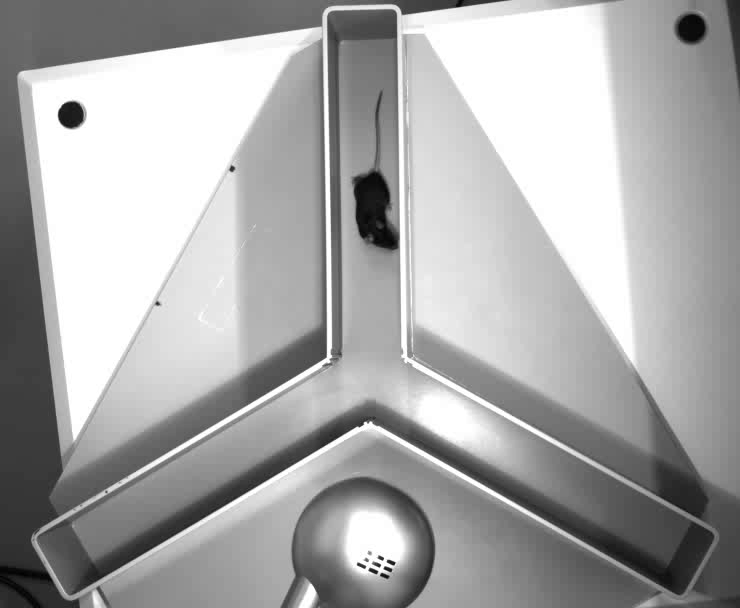
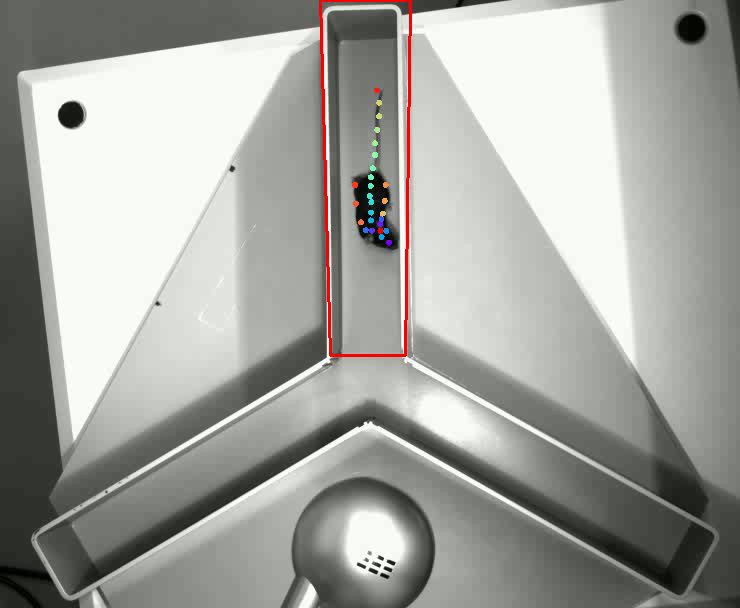
a

Changed region(s): [[0.4041, 0.0, 0.5595, 0.5938]]

diff --git a/YLine/YLine.py b/YLine/YLine.py
@@ -16,9 +16,8 @@ import re
 
 # USER INPUT
 # define folder with the csv files
-path = 'C:\\Users\\landgrafn\\Desktop\\kat\\'
+path = 'C:\\Users\\landgrafn\\Desktop\\check\\'
 
-# define values
 width = 740
 height = 608
 
@@ -49,7 +48,7 @@ duration = 303.03333333333336
 # preparation
 def get_files(path):
     # get files
-    common_name = 'Y-maze 29.04.2024.517_WT_naiveDLC_resnet50_TopoViewMouseMar22shuffle1_600000_filtered.csv'
+    common_name = '.csv'
     files = [file for file in os.listdir(path) 
                 if os.path.isfile(os.path.join(path, file)) and
                 common_name in file]
@@ -72,13 +71,17 @@ def define_bodyparts():
                  'tail_base', 'tail1', 'tail2', 'tail3', 'tail4', 'tail5', 'tail_end',
                  'left_shoulder', 'left_midside', 'left_hip', 'right_shoulder', 'right_midside', 'right_hip']
 
-    bps_80 = ['nose', 'left_ear', 'right_ear', 'left_ear_tip', 'right_ear_tip', 'left_eye', 'right_eye', 'head_midpoint', 
+    bps_entry = ['nose', 'left_ear', 'right_ear', 'left_ear_tip', 'right_ear_tip', 'left_eye', 'right_eye', 'head_midpoint', 
                  'neck', 'mid_back', 'mouse_center', 'mid_backend', 'mid_backend2', 'mid_backend3', 'tail_base', 
+                 'left_shoulder', 'left_midside', 'left_hip', 'right_shoulder', 'right_midside', 'right_hip']
+    
+    bps_exit = ['nose', 'left_ear', 'right_ear', 'left_ear_tip', 'right_ear_tip', 'left_eye', 'right_eye', 'head_midpoint', 
+                 'neck', 'mid_back', 'mouse_center', 'mid_backend', 'mid_backend2', 'mid_backend3', 
                  'left_shoulder', 'left_midside', 'left_hip', 'right_shoulder', 'right_midside', 'right_hip']
 
     # bps_head = ['nose', 'left_ear', 'right_ear', 'left_ear_tip', 'right_ear_tip', 'left_eye', 'right_eye', 'head_midpoint']
 
-    return bps_all, bps_80
+    return bps_all, bps_entry, bps_exit
 
 def cleaning_raw_df(csv_file):
     df = pd.read_csv(path + csv_file, header=None, low_memory=False)
@@ -137,15 +140,17 @@ def point_in_spec_area(df, bp, frame, area):
 
     return area.contains(bp_point)
         
-def entry_into_arm(df, bps_80, frame, areas, areas_int):
-    global frames_with_no_annot
+def entry_into_arm(df, bps_list, frame, areas, areas_int):
     # returns arm of entry if front 80% are in an ARM
-    # of all front 80%, none is allowed to be in another area and >= 3 bps need to be non-nan
+    # of all front 80%, none is allowed to be in another area and >= X bps need to be non-nan
+    nonnan_bps_in_new_area = 12
     # entry can only happen if an exit happened before!
+
+    global frames_with_no_annot
 
     # create list with all the areas in which the bodyparts are in
     areas_of_bps = []
-    for bp in bps_80:
+    for bp in bps_list:
         areas_of_bps.append(point_in_which_area(df, bp, frame, areas, areas_int))
     
     # only care about the ones that DLC has identified
@@ -155,23 +160,23 @@ def entry_into_arm(df, bps_80, frame, areas, areas_int):
     areas_of_bps = [i for i in areas_of_bps if i is not None]
 
     # if all bodyparts are in the area of the first bodypart and the first bodypart is not in center (=0)
-    if len(areas_of_bps) >= 3:
+    if len(areas_of_bps) >= nonnan_bps_in_new_area:
         first_value = areas_of_bps[0]
         if all(elem == first_value for elem in areas_of_bps) and first_value != 0:
             return first_value
     return False
 
-def exit_outof_arm(df, bps_80, frame, curr_area, areas, areas_int):
+def exit_outof_arm(df, bps_list, frame, curr_area, areas, areas_int):
     # exit if front 80% not in current arm but rather parts of front 80% in other area (min 1 non-nan)
     
     # if a bp is in curr_arm, it is no exit -> return False; if no bp is in curr_arm, it may be an exit ->continue
-    for bp in bps_80:
+    for bp in bps_list:
         if point_in_spec_area(df, bp, frame, areas[curr_area]):
             return False
     
     # check if any bp is in other area than curr_arm
     areas_of_bps = []
-    for bp in bps_80:
+    for bp in bps_list:
         areas_of_bps.append(point_in_which_area(df, bp, frame, areas, areas_int))
     
     # only care for bodyparts that DLC has identified
@@ -184,14 +189,14 @@ def exit_outof_arm(df, bps_80, frame, curr_area, areas, areas_int):
     
     return False
 
-def calc_all_pos(df, bps_80, areas, areas_int):
+def calc_all_pos(df, bps_entry, bps_exit, areas, areas_int):
     # when animal is leaving an arm, position is automatically set as center
     all_positions = []
     curr_area = 0
 
     for frame in tqdm(range(len(df.index))):
         if curr_area == 0: 
-            entry = entry_into_arm(df, bps_80, frame, areas, areas_int)
+            entry = entry_into_arm(df, bps_entry, frame, areas, areas_int)
             if not entry:
                 all_positions.append(0)
             elif entry:
@@ -199,7 +204,7 @@ def calc_all_pos(df, bps_80, areas, areas_int):
                 curr_area = entry
 
         elif curr_area != 0:
-            exit = exit_outof_arm(df, bps_80, frame, curr_area, areas, areas_int)
+            exit = exit_outof_arm(df, bps_exit, frame, curr_area, areas, areas_int)
             if not exit:
                 all_positions.append(curr_area)
             elif exit:
@@ -230,7 +235,7 @@ def do_stuff(files):
     for file in files:
         print(f'\n{file}')
         df = cleaning_raw_df(file)
-        all_positions = calc_all_pos(df, bps_80, areas, areas_int)
+        all_positions = calc_all_pos(df, bps_entry, bps_exit, areas, areas_int)
 
         # only add areas that were entered after a change
         pos_changes = [pos for i, pos in enumerate(all_positions) if i == 0 or pos != all_positions[i-1]]
@@ -262,7 +267,7 @@ center, left_arm, middle_arm, right_arm = define_areas()
 areas = [center, left_arm, middle_arm, right_arm]
 areas_int = [0, 1, 2, 3]
 
-bps_all, bps_80 = define_bodyparts()
+bps_all, bps_entry, bps_exit = define_bodyparts()
 
 all_positions = do_stuff(files)
 
@@ -313,7 +318,7 @@ def draw_and_write(input_folder, output_folder, areas, positions):
 
 def video_from_frames(input_folder, path):
     # created video from all frames with drawn polygons
-    output = os.path.join(path, 'video_edit.mp4')
+    output = os.path.join(path, f'{files[0]}_edit.mp4')
 
     images = [file for file in os.listdir(input_folder) if file.endswith('.png')]
 

diff --git a/YLine/check_Y_coords.py b/YLine/check_Y_coords.py
@@ -8,7 +8,7 @@ import os
 
 # USER INPUT
 # define folder with the csv files
-path = 'C:\\Users\\landgrafn\\Desktop\\kat\\'
+path = 'C:\\Users\\landgrafn\\Desktop\\check\\'
 
 # left arm
 left_corner = (330, 355)
